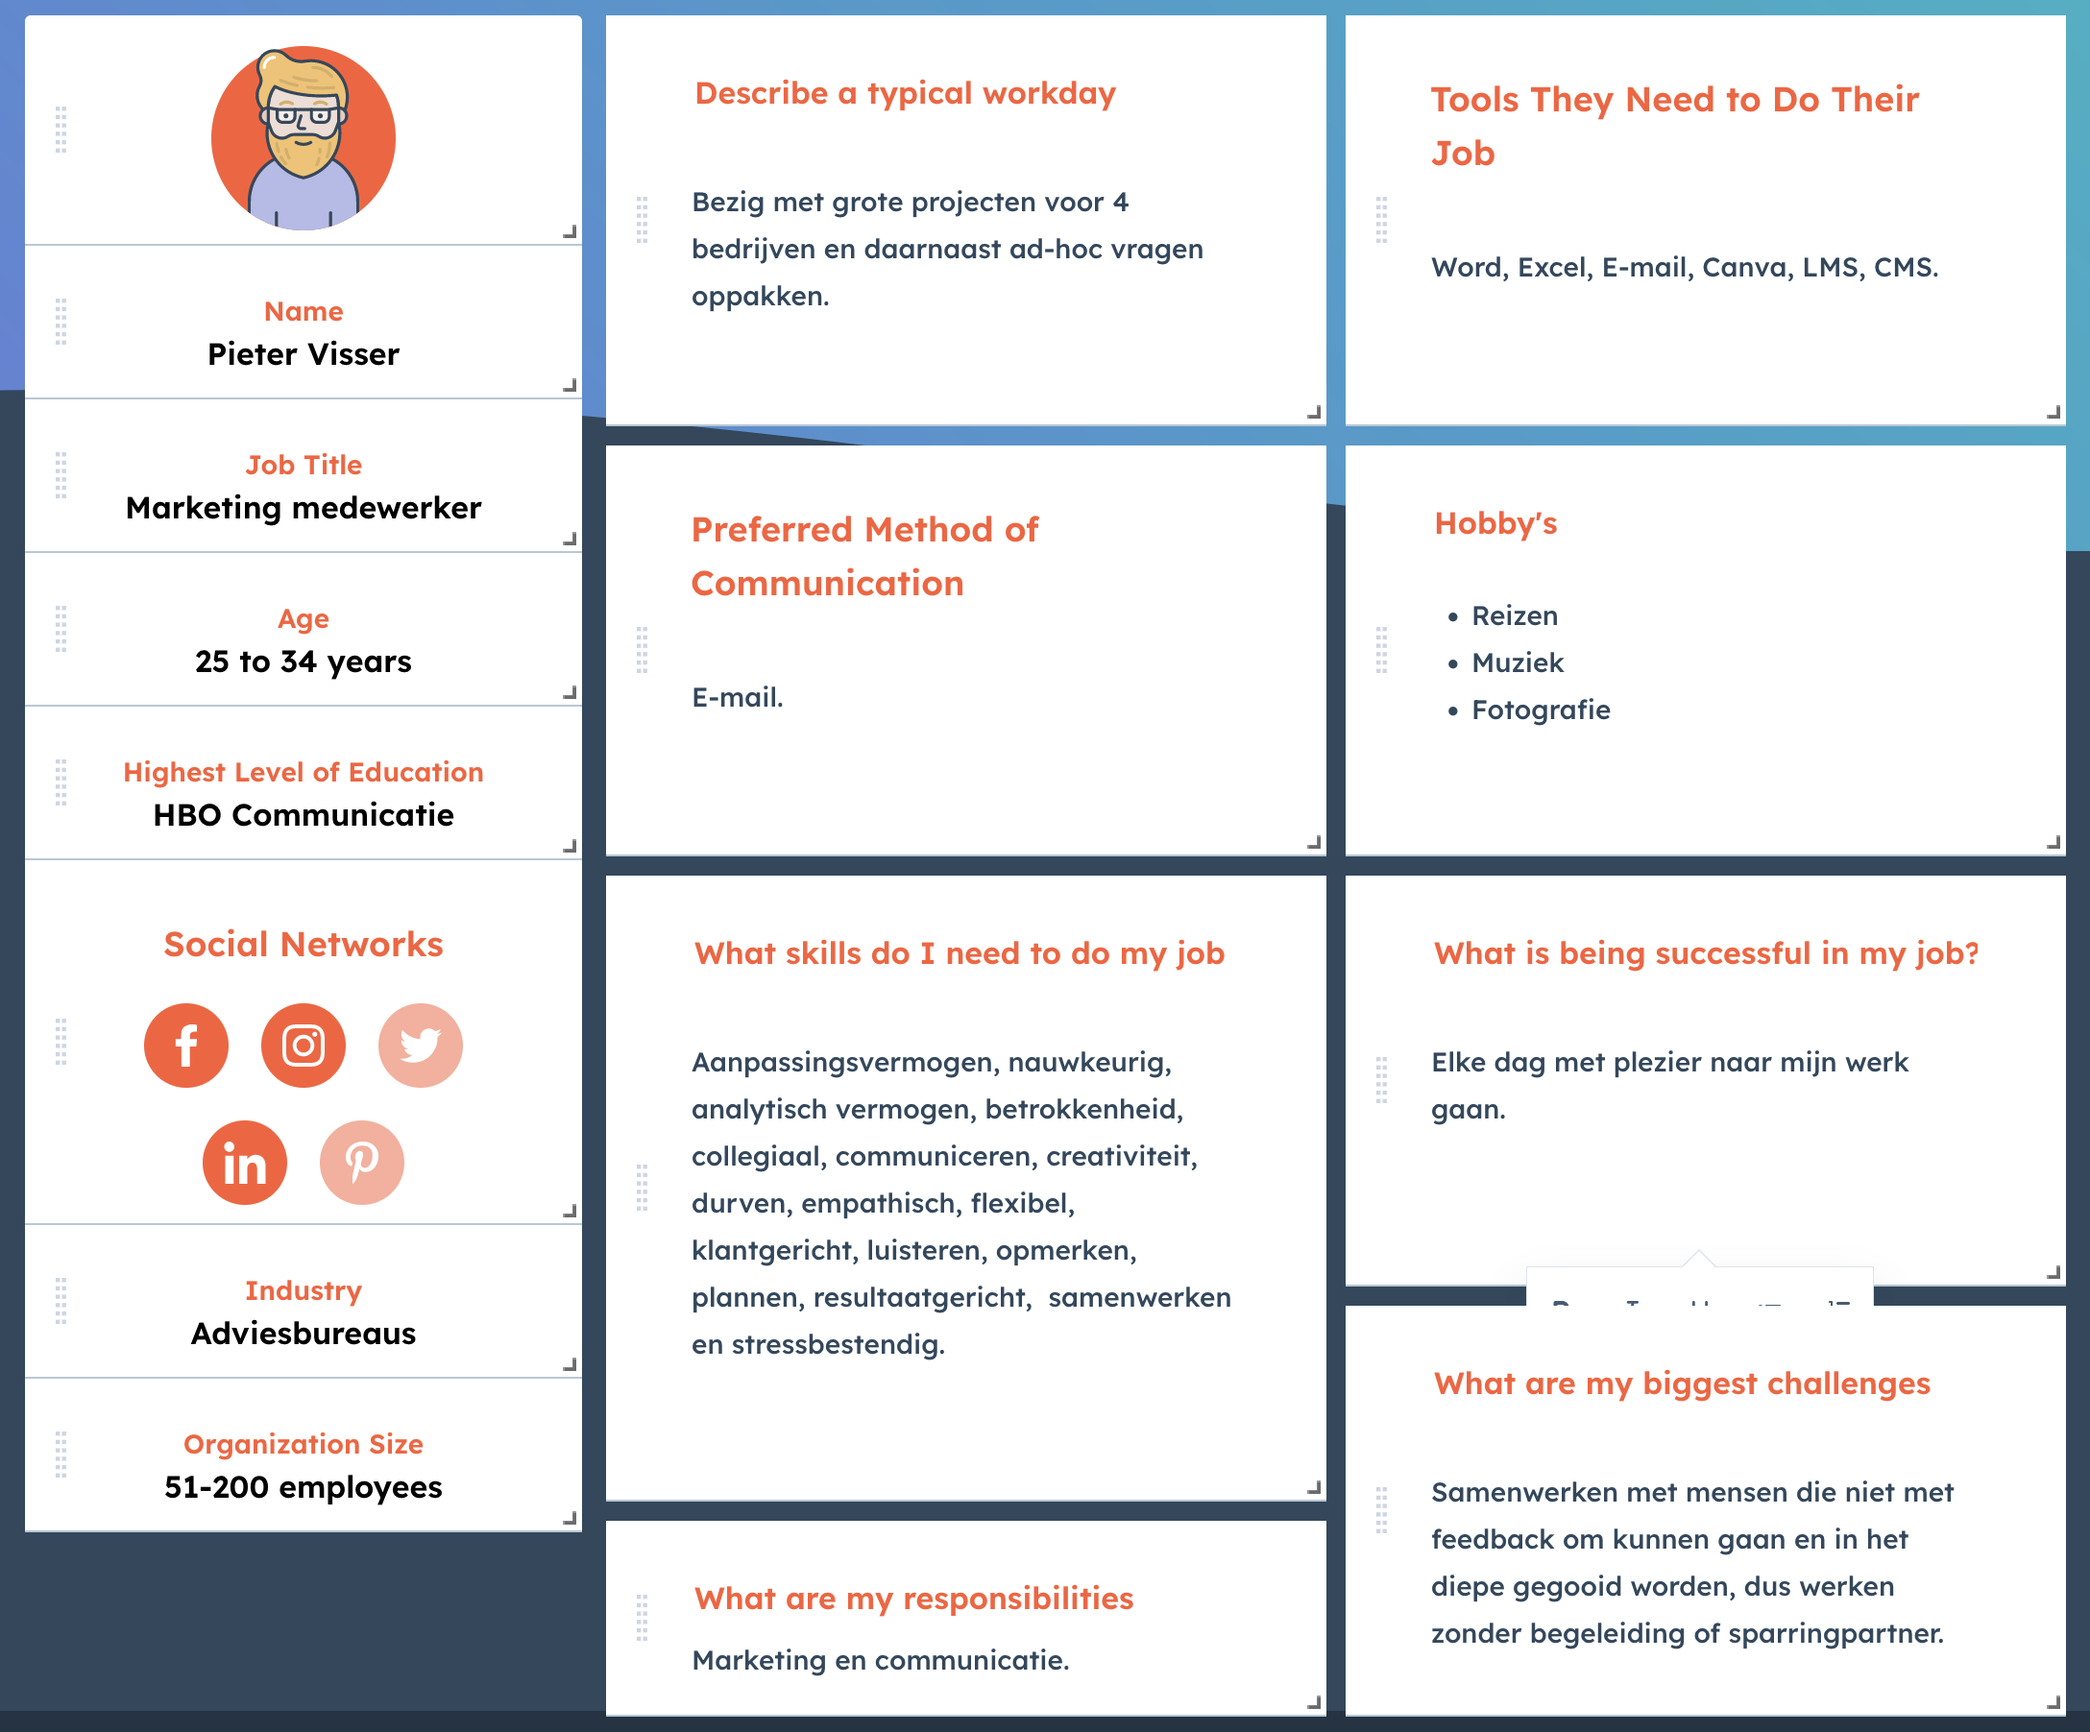
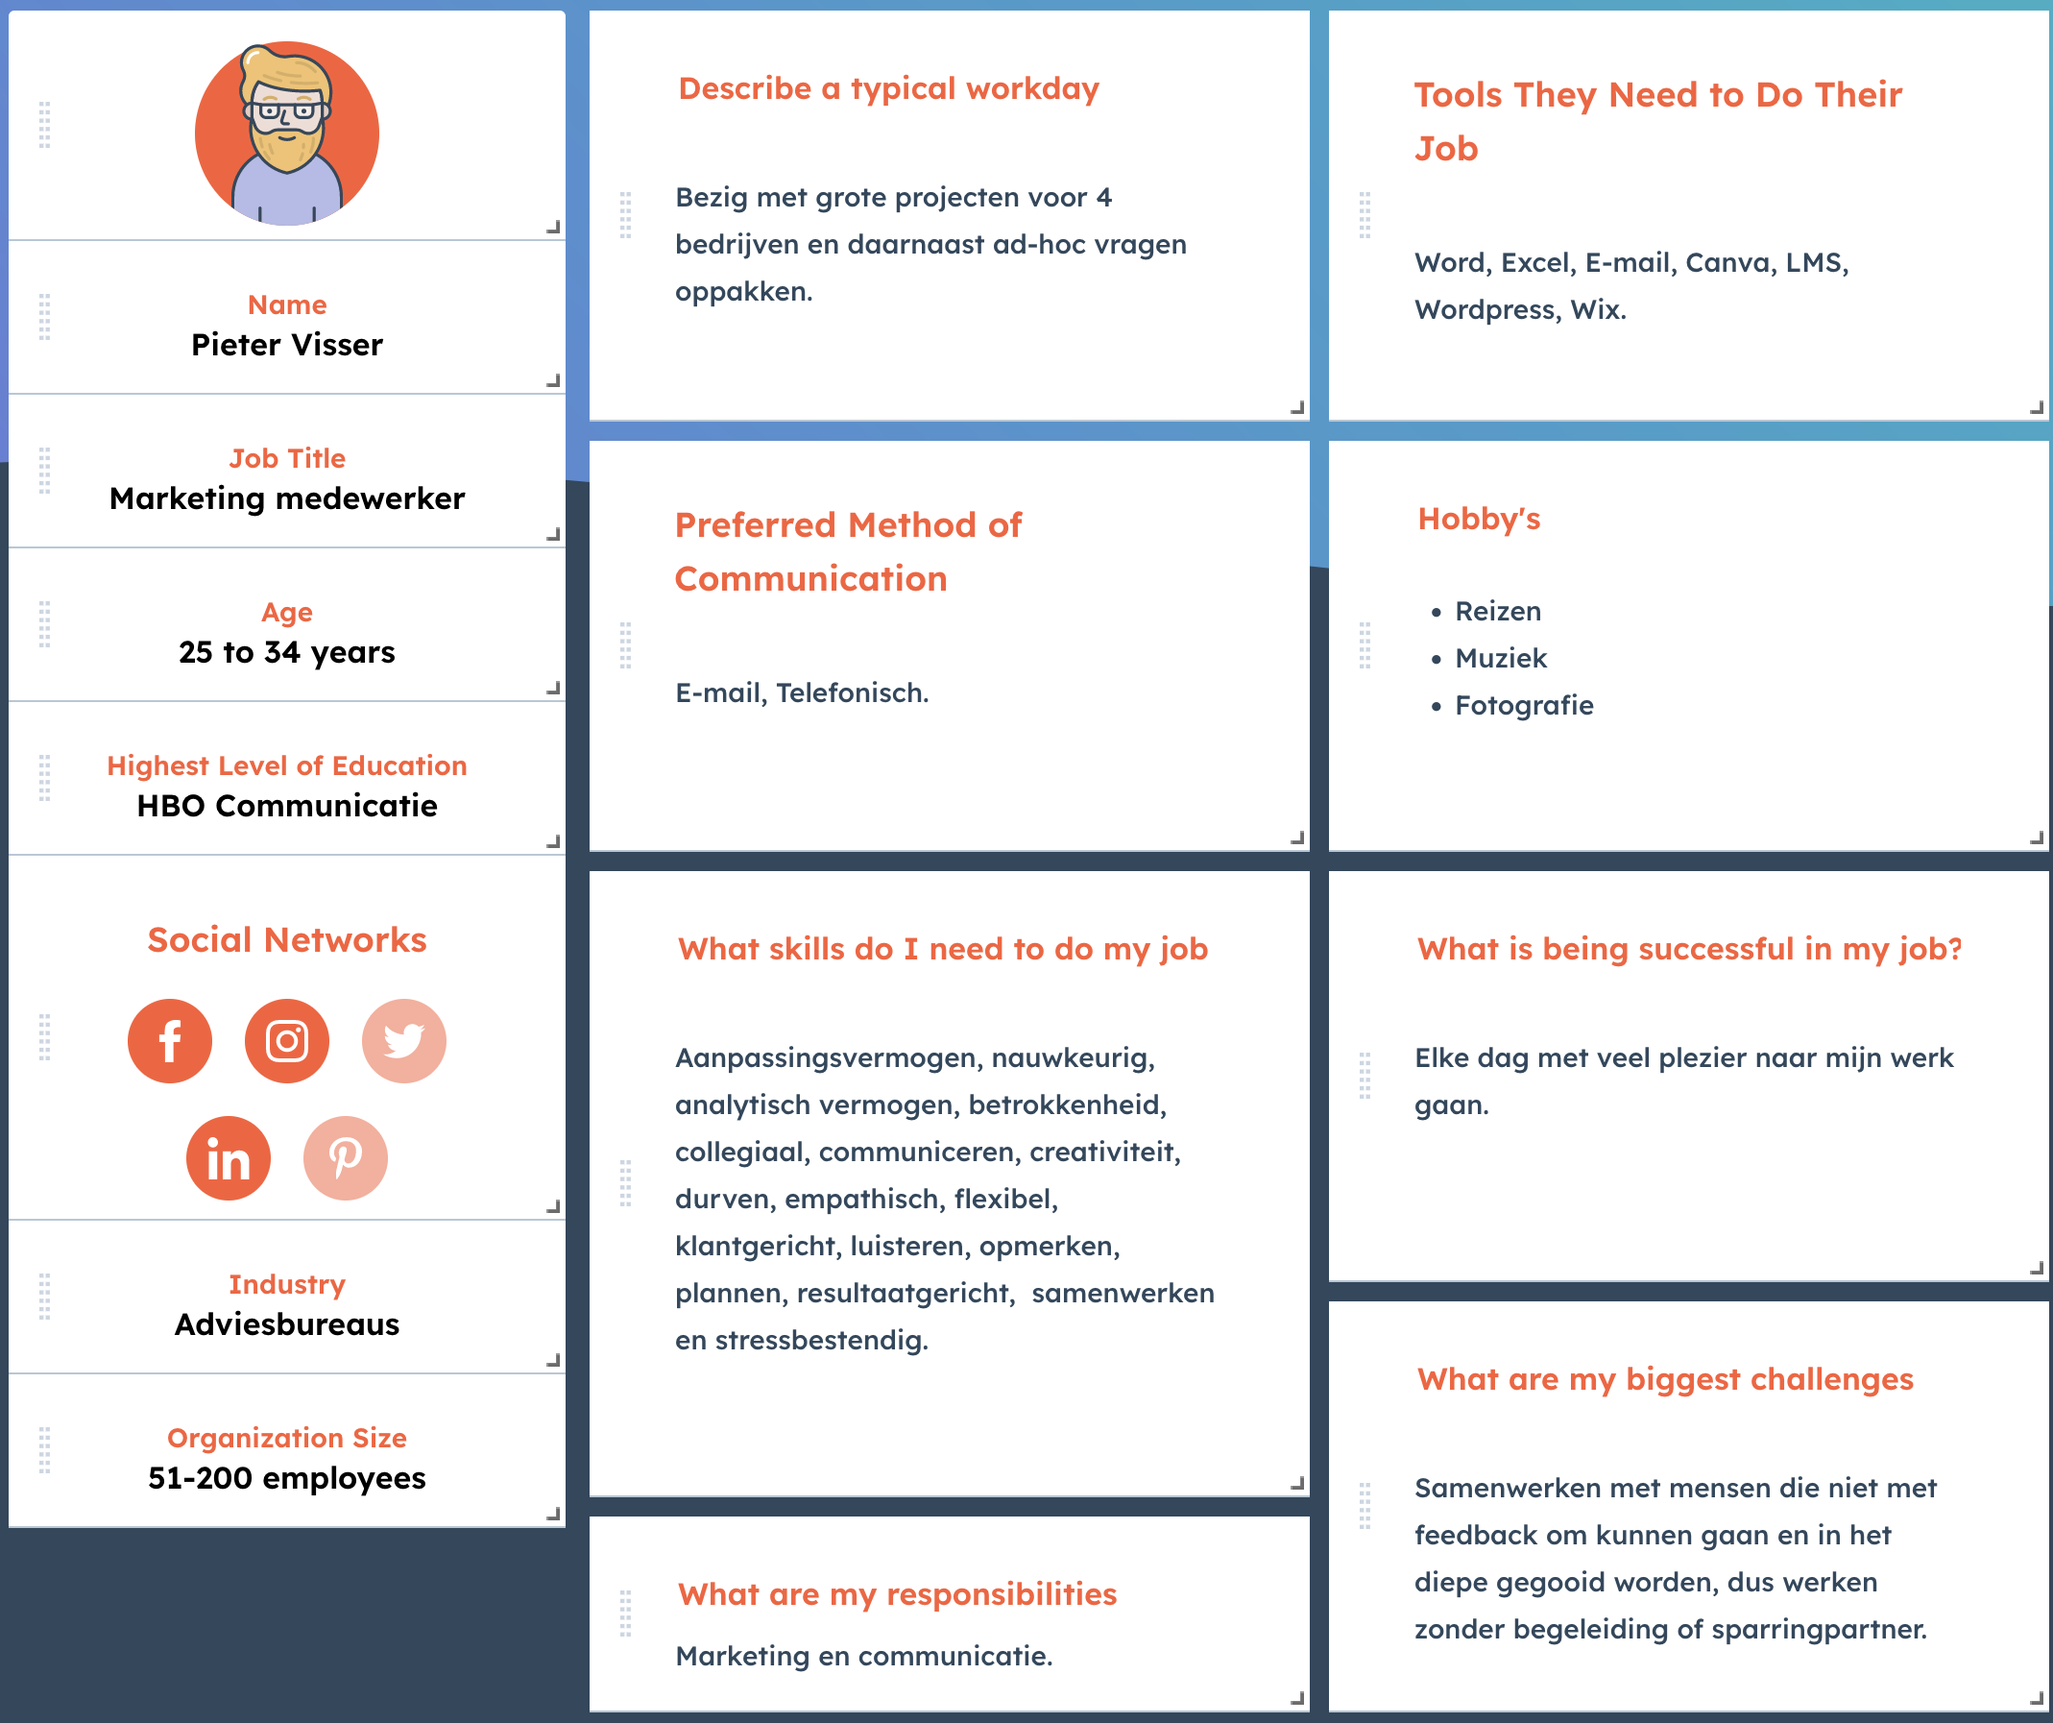
GitBook: [#42] No subject

diff --git a/stage-project/doelgroep-personas.md b/stage-project/doelgroep-personas.md
@@ -43,7 +43,7 @@ Als je doelgroep uit een bepaalde stad of provincie komt, kun je bijvoorbeeld Wi
 
 ### 2. Field research bij bestaande klanten
 
-Gebruik informatie die je al hebt van bestaande klanten. Dan bedoel ik niet alleen demografische gegevens en andere data die je uit het crm-systeem kunt halen, maar ook achterliggende vraagstukken of uitdagingen.
+Gebruik informatie die je al hebt van bestaande klanten. Niet alleen demografische gegevens en andere data, maar ook achterliggende vraagstukken of uitdagingen.
 
 * Wat speelt er momenteel bij ze?
 * Welke problemen los je voor ze op?
@@ -61,11 +61,11 @@ Nu dat er onderzoek is gedaan en alle informatie geanalyseerd is, is het tijd om
 
 Probeer te voorkomen dat je jouw persona te veel baseert op één bestaande klant. Het is juist de bedoeling om gegevens van al je belangrijke klanten te bundelen. Voorkom ook dat je te veel aan de oppervlakte blijft, bijvoorbeeld door je persona alleen op demografische gegevens te baseren. Juist de doelen en motivaties zijn belangrijk om de persona volledig te begrijpen.
 
-## Enquête
+## Enquête Opstellen
 
 Om een duidelijker beeld te krijgen van de doelgroep heb ik besloten om persona's te gaan maken. Daarom ben ik een enquête gaan opstellen, zodat ik wat aanvullende informatie kan verkrijgen over de personen in deze desbetreffende doelgroep.
 
-<figure><img src="../.gitbook/assets/enqueteigmblurred.png" alt=""><figcaption></figcaption></figure>
+Voordat ik mijn enquête ging opstellen ben ik opzoek gegaan naar welke vragen ik moet stellen om meer informatie te krijgen over de doelgroep. Vervolgens heb ik een document gevonden waarin staat hoe ik stap voor stap een persona moet opstellen, zo staat er ook in vermeld welke vragen ik kan stellen. Met behulp van dat document heb ik een aantal vragen opgesteld die relevant zijn voor de doelgroep van Blue Dragon.
 
 Nadat ik de enquête heb opgesteld, heb ik een Email gemaakt waarin ik vraag of de gebruikers van dit systeem deze graag zouden willen invullen. Ik heb daarom op het internet opgezocht hoe ik een goede email moet formuleren om te vragen of iemand een enquête wil invullen.&#x20;
 
@@ -73,44 +73,42 @@ Na wat zoeken ben ik uiteindelijk bij een website gekomen met een artikel over "
 
 {% embed url="https://www.enquete.com/nl/blog-1058-met-deze-7-tips-zorg-je-ervoor-dat-mensen-jouw-vragenlijst-invullen" %}
 
-Met behulp van dit artikel heb ik een mooie email weten te formuleren.
-
-> Beste Naam,
->
-> Hoi mijn naam is Thom Schneider, ik zit in het 3de leerjaar van de studie ICT op het Fontys in Eindhoven.  Op dit moment loop ik stage bij Blue Dragon, tijdens mijn stageperiode ben ik bezig met een project om het content managementsysteem van Blue Dragon gebruiksvriendelijker te maken. &#x20;
->
-> Om het systeem meer gebruiksvriendelijk te maken heb ik informatie nodig van de doelgroep die dit systeem in gebruik heeft. Daarom heb ik een enquête opgesteld met wat vragen, zodat ik een aantal persona’s kan maken waardoor het een stuk makkelijker wordt om content te produceren wat bij de behoeften en wensen van de stakeholders past.
->
-> Enquête:
->
-> [https://docs.google.com/forms/d/e/1FAIpQLSeAo7fffJJ1RF\_VbFnlMpsKi\_C33IXOG4NkqskCH6h6Za04yA/viewform?usp=sf\_link](https://docs.google.com/forms/d/e/1FAIpQLSeAo7fffJJ1RF\_VbFnlMpsKi\_C33IXOG4NkqskCH6h6Za04yA/viewform?usp=sf\_link)
->
-> Bij voorbaat dank!
-
 Vervolgens heb ik deze email laten lezen door mijn stagebegeleider, om nog wat feedback te vragen. Uiteindelijk heb ik wat nuttige feedback gehad wat erg fijn was. Ik heb deze feedback gelijk verwerkt en heb daarna de mail verstuurd naar de stakeholders.
 
-> Hallo Naam,
+> Hallo Naam,&#x20;
 >
-> Momenteel loop ik stage bij Blue Dragon, tijdens mijn stageperiode ben ik bezig met een project om het content managementsysteem van Blue Dragon wat je momenteel in gebruik hebt nog gebruiksvriendelijker te maken.
+> Momenteel loop ik stage bij Blue Dragon, tijdens mijn stageperiode ben ik bezig met een project om het content managementsysteem van Blue Dragon wat je momenteel in gebruik hebt nog gebruiksvriendelijker te maken.&#x20;
 >
-> Om het systeem meer gebruiksvriendelijk te maken zou het fijn zijn om meer informatie te verkrijgen over de doelgroep die dit systeem in gebruik heeft. Daarom heb ik een enquête opgesteld met wat vragen, zodat ik een aantal persona’s kan maken waardoor het een stuk makkelijker wordt om de gebruiksvriendelijk mogelijk verder te optimaliseren naar de behoeften en wensen van jullie als klant. Het invullen van de enquête duurt ongeveer 10 minuten, en je gegevens worden anoniem verwerkt.
+> Om het systeem meer gebruiksvriendelijk te maken zou het fijn zijn om meer informatie te verkrijgen over de doelgroep die dit systeem in gebruik heeft. Daarom heb ik een enquête opgesteld met wat vragen, zodat ik een aantal persona’s kan maken waardoor het een stuk makkelijker wordt om de gebruiksvriendelijk mogelijk verder te optimaliseren naar de behoeften en wensen van jullie als klant. Het invullen van de enquête duurt ongeveer 10 minuten, en je gegevens worden anoniem verwerkt.&#x20;
 >
 > Enquête:
 >
-> [https://docs.google.com/forms/d/e/1FAIpQLSeAo7fffJJ1RF\_VbFnlMpsKi\_C33IXOG4NkqskCH6h6Za04yA/viewform?usp=sf\_link](https://docs.google.com/forms/d/e/1FAIpQLSeAo7fffJJ1RF\_VbFnlMpsKi\_C33IXOG4NkqskCH6h6Za04yA/viewform?usp=sf\_link)
+> https://docs.google.com/forms/d/e/1FAIpQLSeAo7fffJJ1RF\_VbFnlMpsKi\_C33IXOG4NkqskCH6h6Za04yA/viewform?usp=sf\_link
 >
 > Bij voorbaat dank!
 
-## Persona's
-
-<figure><img src="../.gitbook/assets/persona1.png" alt=""><figcaption></figcaption></figure>
-
-<figure><img src="../.gitbook/assets/persona2.png" alt=""><figcaption></figcaption></figure>
-
-## Feedback
-
-Nadat ik mijn enquête had opgesteld, heb ik het formulier opgestuurd naar mijn bedrijfsbegeleider zodat hij er nog een keer overheen kan kijken voordat het verstuurd wordt. Toen mijn bedrijfsbegeleider de enquête had doorgenomen had hij een aantal feedback punten die ik moest verbeteren.
+Nadat ik mijn enquête had opgesteld, heb ik het formulier opgestuurd naar mijn bedrijfsbegeleider zodat hij er nog een keer overheen kan kijken voordat het verstuurd wordt. Toen mijn bedrijfsbegeleider de enquête had doorgenomen had hij een aantal feedback punten die ik heb verbeterd.
 
 <figure><img src="../.gitbook/assets/ssfeedbackenquete.png" alt=""><figcaption></figcaption></figure>
 
 Vervolgens heb ik de feedback van de enquête verbeterd zodat deze opgestuurd kan worden naar de stakeholders.
+
+## Persona's
+
+Na een tijdje wachten heb ik een aantal antwoorden gekregen op mijn enquête. Ik heb mijn persona's gemaakt met een tool van hubspot.&#x20;
+
+<div>
+
+<figure><img src="../.gitbook/assets/persona1.png" alt=""><figcaption></figcaption></figure>
+
+ 
+
+<figure><img src="../.gitbook/assets/persona2.png" alt=""><figcaption></figcaption></figure>
+
+</div>
+
+## Conclusie
+
+Van deze persona's kun je afleiden dat ze allebei ongeveer dezelfde tools gebruiken. Nu dat ik weet welke tools mijn persona's gebruiken op een dagelijkse basis, kan ik rekening houden met het design van die tools. Ook zie ik hier dat de voorkeur van communicatie via de mail en telefoon word gedaan, dus hier kan ik ook op letten dat ik ergens het mail adres of telefoon nummer van het contact persoon vermeld. Verder zie je ook dat reizen een hobby is van de persona dus is het ook wel handig als je het cms kan openen op je mobiel zodat je onderweg ook dingen kan aanpassen.
+
+&#x20;
